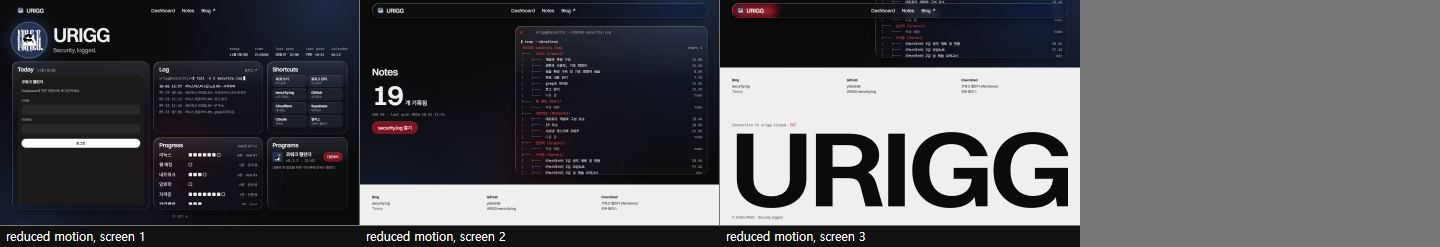
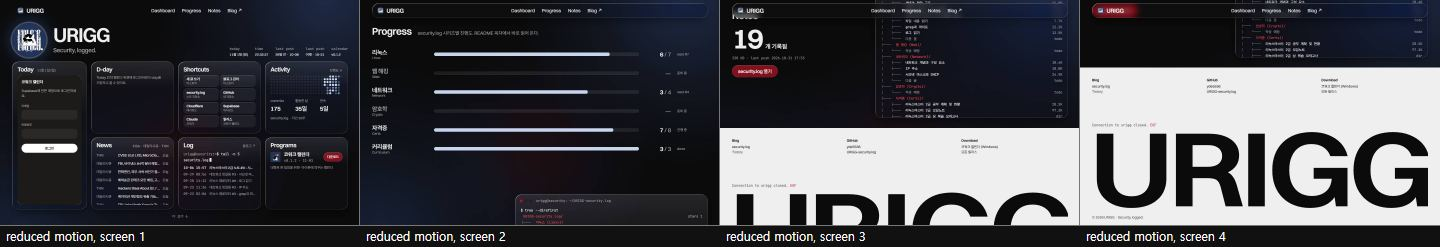
Move Progress into its own scroll scene with filling gauges
Progress leaves the dashboard and becomes a pinned scene before Notes:
one bar per series that fills in turn as you scroll, with the count
climbing alongside. Its tile is replaced by an Activity tile holding the
commit grass at full size plus total commits, active days and the
current streak; the header keeps just the status line.

diff --git a/site/css/scenes.css b/site/css/scenes.css
@@ -35,12 +35,12 @@
 .tile__more { margin-left: auto; font-size: var(--step-small); color: var(--muted); text-decoration: none; white-space: nowrap; }
 .tile__more:hover { color: var(--ink); }
 /* 왼쪽 Today(좁게, 두 줄 높이) + 오른쪽 6칸(3열 × 2줄, 모두 같은 크기)
-   D-day | Shortcuts | Progress
+   D-day | Shortcuts | Activity
    News  | Log       | Programs */
 .tile--today { grid-column: 1; grid-row: 1 / span 2; grid-template-rows: auto minmax(0, 1fr); align-content: stretch; }
 .tile--dday { grid-column: 2; grid-row: 1; }
 .tile--alias { grid-column: 3; grid-row: 1; }
-.tile--progress { grid-column: 4; grid-row: 1; grid-template-rows: auto minmax(0, 1fr); align-content: stretch; }
+.tile--activity { grid-column: 4; grid-row: 1; }
 .tile--news { grid-column: 2; grid-row: 2; grid-template-rows: auto minmax(0, 1fr); align-content: stretch; }
 .tile--log { grid-column: 3; grid-row: 2; }
 .tile--app { grid-column: 4; grid-row: 2; grid-template-rows: auto minmax(0, 1fr); align-content: stretch; }
@@ -69,10 +69,6 @@
 .key:active { transform: translateY(0) scale(0.97); transition-duration: 100ms; }
 
 /* 진행도 */
-.progress { display: grid; gap: 4px; align-content: start; min-height: 0; overflow: auto; }
-.progress li { display: grid; grid-template-columns: 4.6em auto minmax(0, 1fr); gap: 10px; align-items: baseline; }
-.progress__cells { font-family: var(--mono); letter-spacing: 0.12em; color: var(--accent-text); } /* taste-skill-ignore: 사용자 요청 보안(터미널) 느낌 */
-.progress__next { color: var(--muted); font-size: var(--step-small); text-align: right; white-space: nowrap; overflow: hidden; text-overflow: ellipsis; }
 
 /* 캘린더 앱 */
 .tile__app { display: flex; align-items: center; gap: 14px; }
@@ -89,10 +85,6 @@
 .repo__side { grid-column: 1 / span 4; display: grid; gap: 18px; align-content: center; }
 .repo__count { display: flex; align-items: baseline; gap: 12px; font-size: var(--step-lead); font-weight: 600; }
 .repo__count b { font-size: var(--step-display); line-height: 0.9; letter-spacing: -0.05em; color: var(--accent-text); font-variant-numeric: tabular-nums; }
-.progress { display: grid; gap: 10px; }
-.progress li { display: grid; grid-template-columns: 5.5em auto 1fr; gap: 12px; align-items: baseline; }
-.progress__cells { font-family: var(--mono); letter-spacing: 0.12em; color: var(--accent-text); } /* taste-skill-ignore: 사용자 요청 보안(터미널) 느낌 */
-.progress__next { color: var(--muted); font-size: var(--step-small); text-align: right; } /* taste-skill-ignore: 사용자 요청 보안(터미널) 느낌 */
 .repo__foot { color: var(--muted); font-size: var(--step-small); font-family: var(--mono); } /* taste-skill-ignore: 사용자 요청 보안(터미널) 느낌 */
 .repo__side .btn { justify-self: start; }
 .term--window { grid-column: 6 / span 7; display: grid; grid-template-rows: auto 1fr; height: min(66svh, 640px); overflow: hidden; }
@@ -128,7 +120,7 @@ a.term__row:hover .nm { text-decoration: underline 1px; text-underline-offset: 4
   .dash { min-height: 0; }
   .dash__grid { grid-template-columns: 1fr 1fr; grid-template-rows: none; }
   .tile--today { grid-column: 1 / -1; grid-row: auto; }
-  .tile--dday, .tile--news, .tile--log, .tile--alias, .tile--progress, .tile--app { grid-column: auto; grid-row: auto; height: auto; }
+  .tile--dday, .tile--news, .tile--log, .tile--alias, .tile--activity, .tile--app { grid-column: auto; grid-row: auto; height: auto; }
   .tile--news { height: 320px; }
   .repo__side { grid-column: 1 / -1; }
   .repo__foot { display: none; }
@@ -142,7 +134,7 @@ a.term__row:hover .nm { text-decoration: underline 1px; text-underline-offset: 4
   .dash__status { display: grid; grid-template-columns: 1fr 1fr; gap: 8px 16px; }
   .dash__grid { grid-template-columns: 1fr; gap: 12px; }
   .tile { padding: 18px 18px; }
-  .tile--today { order: 1; } .tile--dday { order: 2; } .tile--alias { order: 3; } .tile--news { order: 4; } .tile--log { order: 5; } .tile--progress { order: 6; } .tile--app { order: 7; }
+  .tile--today { order: 1; } .tile--dday { order: 2; } .tile--alias { order: 3; } .tile--news { order: 4; } .tile--log { order: 5; } .tile--activity { order: 6; } .tile--app { order: 7; }
   .tile__head { flex-wrap: wrap; }
   .tail li { grid-template-columns: 1fr; gap: 0; white-space: normal; }
   .tail li:nth-child(n+4) { display: none; }
@@ -173,21 +165,24 @@ a.term__row:hover .nm { text-decoration: underline 1px; text-underline-offset: 4
 }
 
 /* 타일 안 목록은 세로로만, 스크롤바는 가늘고 옅게 */
-.progress, .programs { overflow-x: hidden; scrollbar-width: thin; scrollbar-color: rgba(255, 255, 255, 0.22) transparent; }
+.programs { overflow-x: hidden; scrollbar-width: thin; scrollbar-color: rgba(255, 255, 255, 0.22) transparent; }
 
 /* Today: 코워크 캘린더 위젯을 그대로 띄운다 */
 .today__date { color: var(--muted); font-size: var(--step-small); }
 .widget-frame { display: block; width: 100%; height: 100%; min-height: 420px; border: 0; border-radius: 18px; background: transparent; color-scheme: dark; }
 
-/* ── 잔디: 지난 26주 커밋 ─────────────────── */
-.activity { margin: 0; display: grid; gap: 8px; justify-items: start; align-self: end; }
-.activity__grid { display: grid; grid-auto-flow: column; grid-template-rows: repeat(7, 10px); grid-auto-columns: 10px; gap: 3px; }
-.activity__grid i { border-radius: 3px; background: rgba(255, 255, 255, 0.06); }
+/* ── Activity 칸: 지난 26주 커밋 잔디 ─────── */
+.tile--activity { align-content: start; }
+.activity__grid { display: grid; grid-auto-flow: column; grid-template-rows: repeat(7, auto); grid-auto-columns: minmax(0, 1fr); gap: 3px; }
+.activity__grid i { aspect-ratio: 1; border-radius: 3px; background: rgba(255, 255, 255, 0.06); }
 .activity__grid .lv1 { background: rgba(140, 170, 235, 0.38); }
 .activity__grid .lv2 { background: rgba(160, 190, 245, 0.66); }
 .activity__grid .lv3 { background: rgba(215, 228, 255, 0.95); }
-.activity figcaption { font-size: var(--step-small); color: var(--muted); }
-.activity figcaption b { color: var(--ink); font-weight: 600; font-variant-numeric: tabular-nums; }
+.activity__stats { display: grid; grid-template-columns: repeat(3, 1fr); gap: 8px; margin: 6px 0 0; }
+.activity__stats div { display: grid; gap: 2px; }
+.activity__stats dt { font-size: var(--step-small); color: var(--muted); }
+.activity__stats dd { margin: 0; font-size: var(--step-lead); font-weight: 600; letter-spacing: -0.02em; font-variant-numeric: tabular-nums; }
+.activity__cap { font-size: var(--step-small); color: var(--muted); }
 
 /* ── 보안 뉴스 ───────────────── */
 .news { display: grid; align-content: start; gap: 0; min-height: 0; overflow: auto; overflow-x: hidden; scrollbar-width: thin; scrollbar-color: rgba(255, 255, 255, 0.22) transparent; }
@@ -197,11 +192,7 @@ a.term__row:hover .nm { text-decoration: underline 1px; text-underline-offset: 4
 .news__title { white-space: nowrap; overflow: hidden; text-overflow: ellipsis; }
 .news time { color: var(--muted); white-space: nowrap; font-variant-numeric: tabular-nums; }
 
-@media (max-width: 1024px) {
-  .activity { order: 3; width: 100%; }
-}
 @media (max-width: 720px) {
-  .activity__grid { grid-template-rows: repeat(7, 9px); grid-auto-columns: 9px; gap: 2px; }
   .news a { grid-template-columns: 1fr auto; }
   .news__src { grid-column: 1 / -1; }
 }
@@ -241,3 +232,27 @@ a.term__row:hover .nm { text-decoration: underline 1px; text-underline-offset: 4
 .dday__check { display: inline-flex; align-items: center; gap: 6px; font-size: var(--step-small); color: var(--muted); }
 .dday__form .btn { justify-self: start; }
 .dday__cancel { border: 0; background: none; padding: 0; font: inherit; font-size: var(--step-small); color: var(--muted); cursor: pointer; justify-self: end; }
+
+/* ── 진행도 장면: 시리즈별 게이지 ─────────── */
+.scene--progress { --len: 220vh; }
+.pg { display: grid; align-content: center; gap: 48px; padding: 104px var(--gutter) 56px; }
+.pg__head { display: flex; align-items: baseline; gap: 24px; flex-wrap: wrap; }
+.pg__head p { color: var(--muted); }
+.gauges { display: grid; gap: 30px; }
+.gauge { --t: 1; display: grid; grid-template-columns: minmax(8em, 14rem) minmax(0, 1fr) 5.5em 6.5em; gap: 24px; align-items: center; }
+.gauge__name { font-size: var(--step-lead); font-weight: 600; letter-spacing: -0.02em; line-height: 1.2; }
+.gauge__name span { display: block; font-size: var(--step-small); font-weight: 400; color: var(--muted); letter-spacing: 0; }
+.gauge__track { height: 14px; border-radius: 999px; background: rgba(255, 255, 255, 0.08); overflow: hidden; box-shadow: inset 0 0 0 1px rgba(255, 255, 255, 0.06); } /* taste-skill-ignore: 게이지 트랙 */
+.gauge__fill { display: block; height: 100%; border-radius: inherit; background: rgba(215, 228, 255, 0.92); transform-origin: left; transform: scaleX(calc(var(--ratio) * var(--t))); will-change: transform; }
+.gauge__count { font-size: var(--step-lead); color: var(--muted); font-variant-numeric: tabular-nums; text-align: right; }
+.gauge__count b { color: var(--ink); font-weight: 700; }
+.gauge__next { font-size: var(--step-small); color: var(--muted); }
+.gauge.is-empty .gauge__name { color: var(--muted); }
+@media (max-width: 720px) {
+  .pg { gap: 28px; padding-top: 96px; }
+  .gauges { gap: 20px; }
+  .gauge { grid-template-columns: minmax(0, 1fr) auto; gap: 6px 12px; }
+  .gauge__track { grid-column: 1 / -1; grid-row: 2; height: 10px; }
+  .gauge__count { font-size: var(--step-body); }
+  .gauge__next { grid-column: 1 / -1; }
+}

diff --git a/site/index.html b/site/index.html
@@ -38,6 +38,7 @@
     <a class="top__mark" href="#top" aria-label="URIGG 처음으로"><img src="images/logo-round-240.png" alt="" width="28" height="28">URIGG</a>
     <nav class="top__nav" aria-label="섹션">
       <a class="link" href="#today">Dashboard</a>
+      <a class="link" href="#progress">Progress</a>
       <a class="link" href="#repo">Notes</a>
       <a class="link" href="https://urigg-security.tistory.com/" target="_blank" rel="noopener">Blog ↗</a>
     </nav>
@@ -56,10 +57,6 @@
         </h1>
         </div>
         <div class="dash__side">
-          <figure class="activity" aria-labelledby="activity-cap">
-            <div class="activity__grid" id="activity" role="img" aria-label="security.log 커밋 잔디"></div>
-            <figcaption id="activity-cap">security.log · 지난 26주 <b id="activity-total">0</b> commits</figcaption>
-          </figure>
           <dl class="dash__status">
             <div><dt>today</dt><dd id="st-today">—</dd></div>
             <div><dt>time</dt><dd id="st-clock">--:--:--</dd></div>
@@ -128,10 +125,16 @@
           </ul>
         </nav>
 
-        <!-- 공부 진행도 -->
-        <article class="tile tile--progress glass glass--dark" aria-labelledby="progress-title">
-          <div class="tile__head"><h2 id="progress-title">Progress</h2><a class="link tile__more" href="#repo">tree로 보기 ↓</a></div>
-          <ul class="progress" id="progress" aria-label="시리즈별 진행도"></ul>
+        <!-- 커밋 잔디 -->
+        <article class="tile tile--activity glass glass--dark" aria-labelledby="activity-title">
+          <div class="tile__head"><h2 id="activity-title">Activity</h2><a class="link tile__more" href="#progress">진행도 ↓</a></div>
+          <div class="activity__grid" id="activity" role="img" aria-label="security.log 지난 26주 커밋 잔디"></div>
+          <dl class="activity__stats">
+            <div><dt>commits</dt><dd id="activity-total">0</dd></div>
+            <div><dt>활동한 날</dt><dd id="activity-days">0</dd></div>
+            <div><dt>연속</dt><dd id="activity-streak">0일</dd></div>
+          </dl>
+          <p class="activity__cap">security.log · 지난 26주</p>
         </article>
 
         <!-- 내가 배포하는 프로그램. 새 프로그램은 <li class="tile__app"> 한 줄을 복사해 추가한다. -->
@@ -150,6 +153,17 @@
       <p class="dash__more" aria-hidden="true">더 보기 ↓</p>
     </section>
 
+
+    <!-- 진행도: 휠을 내리면 시리즈별 게이지가 차례로 차오른다 -->
+    <section class="scene scene--progress" id="progress" data-scene="progress" aria-labelledby="progress-title">
+      <div class="stage pg">
+        <div class="pg__head">
+          <h2 id="progress-title">Progress</h2>
+          <p>security.log 시리즈별 진행도. README 목차에서 바로 읽어 온다.</p>
+        </div>
+        <ul class="gauges" id="gauges"></ul>
+      </div>
+    </section>
 
     <!-- 장면 4: tree 출력이 한 줄씩 찍히고 숫자가 올라간다 -->
     <section class="scene scene--repo" id="repo" data-scene="repo" aria-labelledby="repo-title">

diff --git a/site/js/main.js b/site/js/main.js
@@ -72,14 +72,20 @@ function renderGithub(data) {
 
   $('#repo-total').dataset.target = total;
   $('#repo-total').textContent = total;
-  // 시리즈별 진행도: 쓴 글 ■, 남은 자리 □
-  $('#progress').innerHTML = written.map((g) => {
-    const todo = g.entries.length - g.done.length;
-    const cells = '■'.repeat(g.done.length) + '□'.repeat(todo || (g.done.length ? 0 : 1));
+  // 진행도 장면의 게이지: 쓴 글 / 목차의 전체 자리. 채우는 움직임은 scenes.js가 한다.
+  $('#gauges').innerHTML = written.map((g) => {
+    const all = g.entries.length;
+    const done = g.done.length;
+    const ratio = all ? done / all : 0;
     // 번호가 붙는 연재(리눅스·네트워크)만 다음 편 번호를 쓴다
     const series = /리눅스|네트워크/.test(g.name);
-    const next = !g.done.length ? '준비 중' : !todo ? 'done' : series ? `next #${g.done.length + 1}` : '진행 중';
-    return `<li><span class="progress__name">${esc(g.name)}</span><span class="progress__cells" aria-hidden="true">${cells}</span><span class="progress__next">${g.done.length}편 · ${next}</span></li>`;
+    const next = !done ? '준비 중' : done === all ? 'done' : series ? `next #${done + 1}` : '진행 중';
+    return `<li class="gauge${done ? '' : ' is-empty'}" style="--ratio:${ratio}" data-done="${done}">
+      <p class="gauge__name">${esc(g.name)}<span>${esc(g.en || '')}</span></p>
+      <div class="gauge__track" role="img" aria-label="${esc(g.name)} ${done}/${all}"><i class="gauge__fill"></i></div>
+      <p class="gauge__count">${all ? `<b>${done}</b> / ${all}` : '—'}</p>
+      <p class="gauge__next">${next}</p>
+    </li>`;
   }).join('');
   setStatus('st-push', repo.pushedAt);
   $('#repo-foot').textContent = `${Math.round(bytes / 1024)} KB · last push ${stamp(repo.pushedAt)}`;
@@ -134,6 +140,11 @@ function renderActivity(days) {
   }
   $('#activity').innerHTML = cells.join('');
   $('#activity-total').textContent = total;
+  $('#activity-days').textContent = `${Object.values(days).filter((n) => n > 0).length}일`;
+  // 오늘(아직 안 했으면 어제)부터 거꾸로 이어진 날 수
+  let streak = 0;
+  for (let d = days[kstKey(now)] ? 0 : 1; days[kstKey(now - d * DAY)]; d++) streak++;
+  $('#activity-streak').textContent = `${streak}일`;
 }
 
 /* ── 보안 뉴스 ──────────────────────────── */

diff --git a/site/js/scenes.js b/site/js/scenes.js
@@ -47,8 +47,24 @@
     counter.textContent = Math.round(clamp(p / 0.6) * target);
   };
 
+  /* ── 진행도: 위에서부터 차례로 게이지가 차오른다 ── */
+  const pgScene = $('.scene--progress');
+  const drawProgress = () => {
+    const p = progress(pgScene);
+    const gauges = pgScene.querySelectorAll('.gauge');
+    const step = gauges.length > 1 ? 0.5 / (gauges.length - 1) : 0;
+    gauges.forEach((g, i) => {
+      // 각 게이지는 자기 차례(i × step)부터 0.4만큼의 구간 동안 0 → 1
+      const t = clamp((p - i * step) / 0.4);
+      g.style.setProperty('--t', t);
+      const n = g.querySelector('.gauge__count b');
+      if (n) n.textContent = Math.round(t * (+g.dataset.done || 0));
+    });
+  };
+
   /* ── 한 프레임에 한 번만 그린다 ───────────── */
   const scenes = [
+    [pgScene, drawProgress],
     [repoScene, drawRepo],
   ];
   let queued = false;
@@ -59,6 +75,7 @@
   const request = () => { if (!queued) { queued = true; requestAnimationFrame(frame); } };
   const layout = () => {
     $('.scene--repo').style.setProperty('--len', '260vh');
+    pgScene.style.setProperty('--len', '220vh');
     request();
   };
 

diff --git a/README.md b/README.md
@@ -2,8 +2,8 @@
 
 URIGG의 개인 거점 사이트. 나를 소개하는 페이지가 아니라 내가 쓰는 대시보드다. Cloudflare Pages(`*.pages.dev`)에 배포한다.
 
-- 첫 화면 대시보드: 상태, 커밋 잔디, 오늘 일정(캘린더 위젯), D-day, 보안 뉴스, 블로그 로그, 바로가기, 공부 진행도, 프로그램
-- 아래 스크롤 장면: 블로그 로그 카드, security.log `tree` 출력, 캘린더 패킷 경로
+- 첫 화면 대시보드: 상태, 오늘 일정(캘린더 위젯), D-day, 바로가기, 커밋 잔디(Activity), 보안 뉴스, 블로그 로그, 프로그램
+- 아래 스크롤 장면: 시리즈별 진행도 게이지(Progress), security.log `tree` 출력(Notes)
 - 블로그: 티스토리 [security.log](https://urigg-security.tistory.com/) RSS → `/api/blog`
 - 저장소: [URIGG-security.log](https://github.com/yde5536/URIGG-security.log) README 목차 → `/api/github`
 - 일정: 코워크 캘린더 앱의 위젯 화면을 웹용으로 빌드해 Today 칸에 띄운다 (`site/calendar/`, 앱 계정으로 로그인)
